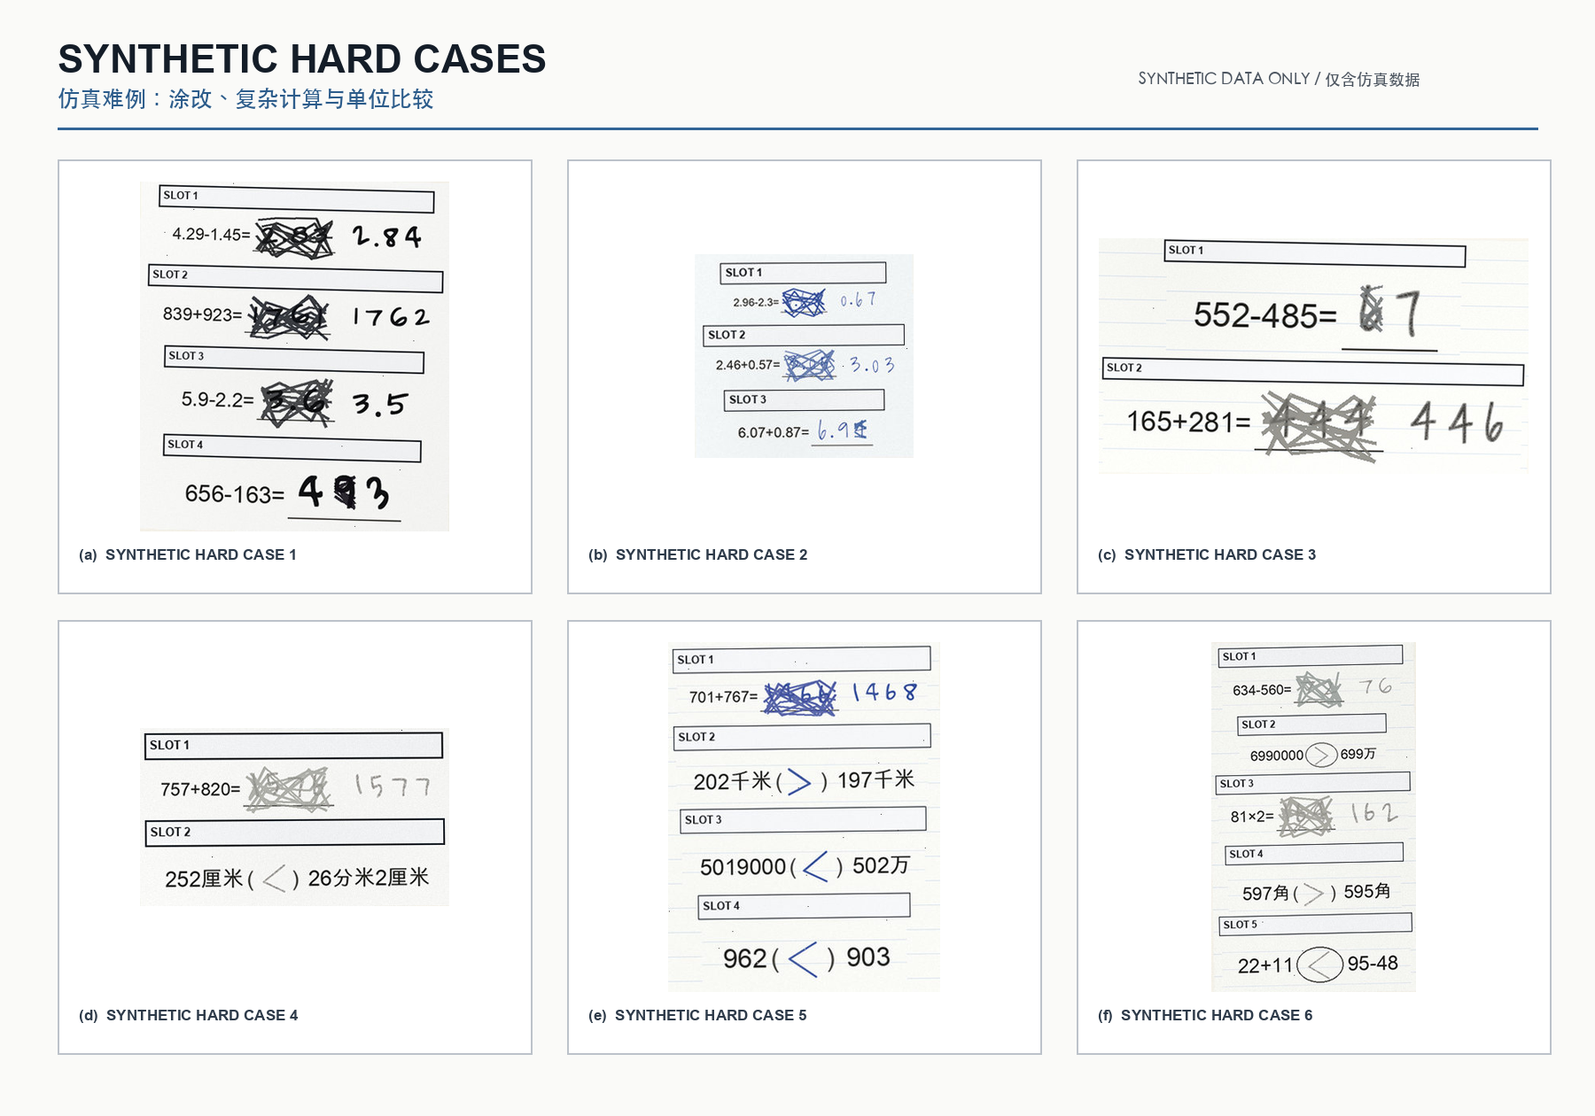
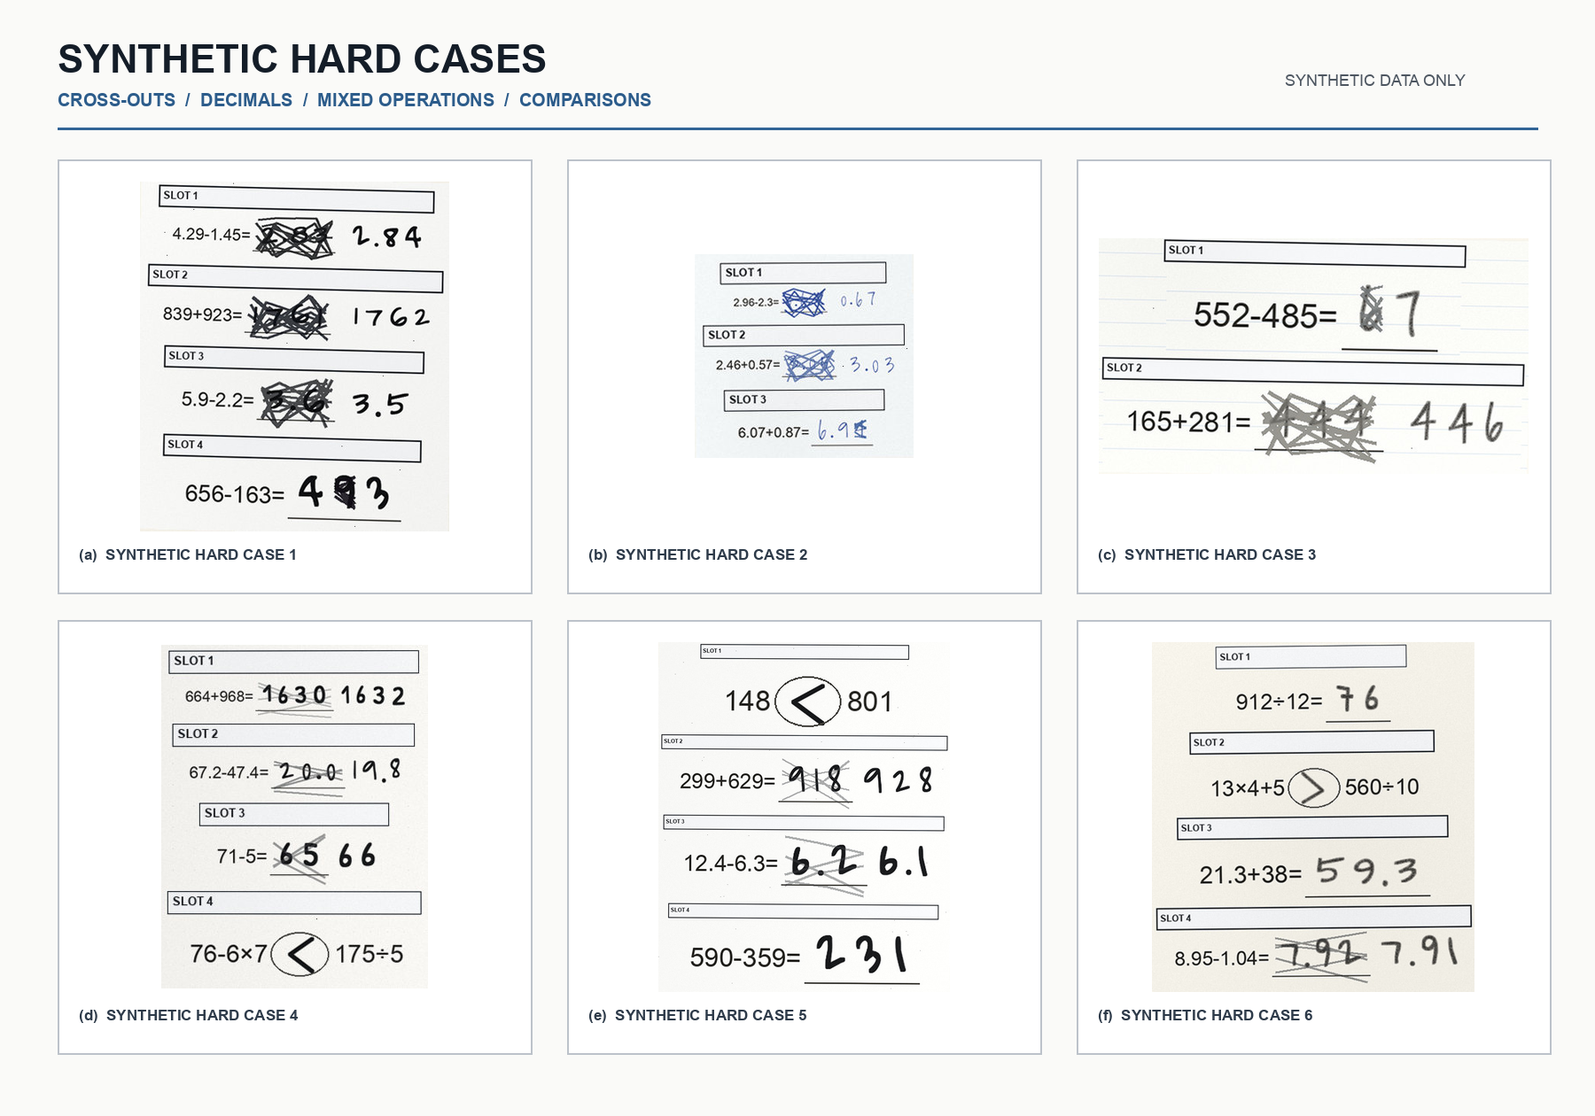
docs: publish English-first bilingual project pages

diff --git a/scripts/generate_demo.py b/scripts/generate_demo.py
@@ -52,18 +52,6 @@ def font(size: int, bold: bool = False):
     return ImageFont.load_default()
 
 
-def cjk_font(size: int, bold: bool = False):
-    paths = [
-        "/System/Library/Fonts/PingFang.ttc",
-        "/System/Library/Fonts/STHeiti Medium.ttc",
-        "/usr/share/fonts/opentype/noto/NotoSansCJK-Bold.ttc" if bold else "/usr/share/fonts/opentype/noto/NotoSansCJK-Regular.ttc",
-    ]
-    for path in paths:
-        if Path(path).exists():
-            return ImageFont.truetype(path, size, index=0)
-    return font(size, bold)
-
-
 def build_review_wall(records: list[dict], gallery: Path) -> None:
     cols, card_w, card_h = 4, 440, 430
     rows = (len(records) + cols - 1) // cols
@@ -71,8 +59,7 @@ def build_review_wall(records: list[dict], gallery: Path) -> None:
     board = Image.new("RGB", (width, height), (249, 249, 248))
     draw = ImageDraw.Draw(board)
     draw.text((55, 30), "SYNTHETIC DATA AUDIT", font=font(42, True), fill=(20, 29, 40))
-    draw.text((55, 82), "合成数据审查", font=cjk_font(25, True), fill=(44, 92, 139))
-    draw.text((285, 88), f"{len(records)} scenes / {len(records) * 5} items / labels + seeds + SHA256", font=font(21), fill=(79, 86, 96))
+    draw.text((55, 88), f"{len(records)} scenes / {len(records) * 5} items / labels + seeds + SHA256", font=font(21), fill=(79, 86, 96))
     draw.line((55, 126, width - 55, 126), fill=(49, 100, 150), width=3)
     draw.text((1570, 77), "CHECKS: PASS", font=font(20, True), fill=(28, 111, 73))
 
@@ -97,10 +84,9 @@ def build_hero(records: list[dict], gallery: Path) -> None:
     draw = ImageDraw.Draw(hero)
     draw.line((62, 46, 62, height - 46), fill=(43, 101, 157), width=5)
     draw.text((104, 70), "VERIINK", font=font(78, True), fill=(19, 28, 39))
-    draw.text((107, 165), "可验证手写仿真引擎", font=cjk_font(38, True), fill=(43, 101, 157))
-    draw.text((107, 220), "VERIFIABLE HANDWRITING SYNTHESIS", font=font(25, True), fill=(72, 81, 92))
-    draw.text((107, 306), "把模型做错的题，批量变成下一轮训练与回归数据。", font=cjk_font(27), fill=(40, 46, 54))
-    draw.text((107, 355), "Turn model failures into training and regression data.", font=font(21), fill=(58, 66, 76))
+    draw.text((107, 170), "VERIFIABLE HANDWRITING SYNTHESIS", font=font(30, True), fill=(43, 101, 157))
+    draw.text((107, 285), "Turn model failures into reproducible", font=font(27), fill=(40, 46, 54))
+    draw.text((107, 330), "training and regression data.", font=font(27), fill=(40, 46, 54))
     draw.line((107, 450, 690, 450), fill=(182, 187, 194), width=2)
     draw.text((107, 478), "SYNTHESIS  /  VALIDATION  /  REGRESSION", font=font(20, True), fill=(43, 101, 157))
     draw.text((107, 530), "PUBLIC DEMO  ·  SYNTHETIC DATA ONLY", font=font(18), fill=(104, 110, 118))
@@ -139,8 +125,8 @@ def build_hardcase_panel() -> None:
     board = Image.new("RGB", (width, height), (250, 250, 248))
     draw = ImageDraw.Draw(board)
     draw.text((65, 42), "SYNTHETIC HARD CASES", font=font(44, True), fill=(20, 29, 40))
-    draw.text((65, 98), "仿真难例：涂改、复杂计算与单位比较", font=cjk_font(25, True), fill=(44, 92, 139))
-    draw.text((1285, 80), "SYNTHETIC DATA ONLY / 仅含仿真数据", font=cjk_font(18), fill=(77, 86, 97))
+    draw.text((65, 101), "CROSS-OUTS  /  DECIMALS  /  MIXED OPERATIONS  /  COMPARISONS", font=font(20, True), fill=(44, 92, 139))
+    draw.text((1450, 80), "SYNTHETIC DATA ONLY", font=font(18), fill=(77, 86, 97))
     draw.line((65, 145, width - 65, 145), fill=(49, 100, 150), width=3)
 
     card_w, card_h = 535, 490

diff --git a/README.md b/README.md
@@ -1,11 +1,6 @@
-<p align="center">
-  <img src="assets/hero.png" alt="VeriInk — 可验证手写仿真引擎 / Verifiable Handwriting Synthesis" width="100%" />
-</p>
+<p align="right"><strong>English</strong> · <a href="README_ZH.md">中文</a></p>
 
-<p align="center">
-  <strong>把模型做错的题，变成下一轮训练数据。</strong><br/>
-  <strong>Turn model failures into the next training batch.</strong>
-</p>
+<p align="center"><img src="assets/hero.png" alt="VeriInk: verifiable handwriting synthesis" width="100%" /></p>
 
 <p align="center">
   <img alt="Python" src="https://img.shields.io/badge/Python-3.9%2B-356A9A" />
@@ -13,47 +8,31 @@
   <img alt="Deterministic rendering" src="https://img.shields.io/badge/Rendering-Deterministic-495B72" />
 </p>
 
-**摘要 / Abstract.** 基座模型和后训练都需要持续补充新数据，尤其是模型刚刚做错的那一类。VeriInk 把失败样本转成同类型手写场景，完成标签、边界与文件完整性检查后，直接用于训练和回归。模型哪里出错，下一批数据就补哪里。
+**VeriInk turns model failures into reproducible handwriting data.** A failed case becomes a controlled batch of related worksheets. The renderer records the seed, visible answer, target transcription, ink bounds, and file hash. Samples that fail the checks never enter the training batch.
 
-Foundation models and post-training runs need fresh data, especially around recent failures. VeriInk turns failed cases into matching handwriting scenes, validates their labels, boundaries, and files, and sends accepted samples into training and regression. New failures decide what the next batch contains.
+The public edition focuses on the part that is easy to audit: deterministic rendering, intentional mistakes, crossed-out revisions, and an explicit manifest. It is designed for OCR, multimodal grading, post-training, and regression evaluation.
 
-## 方法 / Method
+## Method
 
-<p align="center">
-  <img src="assets/method_overview_cvpr.png" alt="VeriInk bilingual method overview" width="100%" />
-</p>
+<p align="center"><img src="assets/method_overview.svg" alt="VeriInk method overview" width="100%" /></p>
 
-<p align="center"><sub>流程示意，不代表公开实测指标。 / Method illustration; not a reported benchmark.</sub></p>
+The model's errors define the next data slice. VeriInk converts those errors into task specifications, renders controlled handwriting scenes, checks label and pixel consistency, and sends accepted samples to training or regression. A later failure can be reproduced from its seed and traced back to the exact generation record.
 
-一条失败样本先被拆成可控的题目、答案、书写方式与版面条件，再生成对应图像。自动验收负责检查像素边界、标签契约和文件哈希；人工只抽查通过机器门禁的数据。训练或回归发现的新问题会成为下一轮合成条件。
+## Synthetic hard cases
 
-A failed sample is converted into controlled content, answer, writing, and layout conditions. Automated validation checks pixel bounds, label contracts, and file hashes before human review. Failures found during training or regression define the next synthesis batch.
+<p align="center"><img src="assets/synthetic_hardcases_cvpr.png" alt="Six synthetic handwriting hard cases" width="100%" /></p>
 
-## 仿真难例 / Synthetic Hard Cases
+These examples cover crossed-out revisions, decimal arithmetic, larger-number operations, and mixed-operation comparison. All six images came from the simulator. No real student image is included. Their public hashes are listed in [`examples/hardcases/manifest.json`](examples/hardcases/manifest.json).
 
-<p align="center">
-  <img src="assets/synthetic_hardcases_cvpr.png" alt="Six verified synthetic handwriting hard cases" width="100%" />
-</p>
+## Reproducible audit set
 
-这里展示的是涂改重写、小数计算、较大数运算、单位换算和比较题。六张图全部来自仿真引擎，并经过来源筛选；没有使用真实学生图片。公开清单与哈希见 [`examples/hardcases/manifest.json`](examples/hardcases/manifest.json)。
+<p align="center"><img src="examples/gallery/synthetic_review_wall.png" alt="Synthetic data audit wall with sixteen verified scenes" width="100%" /></p>
 
-These examples cover crossed-out revisions, decimal arithmetic, larger-number operations, unit conversion, and comparison. All six images were produced by the simulator and source-checked. No real student image is included. Their public manifest and hashes are available in [`examples/hardcases/manifest.json`](examples/hardcases/manifest.json).
+The demo generates **16 pages and 80 answer regions** in one run. It includes arithmetic, decimals, fill-in-the-blank questions, comparisons, unit conversion, intentional mistakes, and crossed-out revisions. [`manifest.json`](examples/gallery/manifest.json) links every image to its seed, labels, bounds, and SHA256.
 
-## 可复现审查集 / Reproducible Audit Set
+Wrong answers stay wrong. This is deliberate: a transcription model should copy the visible response instead of correcting it. Out-of-bounds ink, a broken label contract, or a modified file fails validation.
 
-<p align="center">
-  <img src="examples/gallery/synthetic_review_wall.png" alt="Bilingual synthetic data audit wall with sixteen verified scenes" width="100%" />
-</p>
-
-公开脚本一次生成 **16 张页面、80 个作答区域**，覆盖基础计算、小数、填空、比较、单位换算、故意写错和涂改重写。每张图都带 seed、标签、边界与 SHA256，结果记录在 [`manifest.json`](examples/gallery/manifest.json)。
-
-The public script generates **16 pages and 80 answer regions** in one run. It covers arithmetic, decimals, fill-in-the-blank questions, comparisons, unit conversion, intentional mistakes, and crossed-out revisions. Every image is paired with its seed, labels, bounds, and SHA256 in [`manifest.json`](examples/gallery/manifest.json).
-
-同一个 seed 能重建同一份样本。manifest 记录图片中可见的内容、目标转写，以及作答是否被故意写错。错答案会原样保留，用来训练模型忠实转写，而不是擅自纠正。笔迹出框、标签不一致或文件被修改，验收会直接失败。通过检查的数据可以接入 SFT、DPO/KTO 和回归集。
-
-The same seed rebuilds the same sample. The manifest records what is visible, how it should be transcribed, and whether the response is intentionally wrong. Wrong answers stay wrong, so the model learns to transcribe instead of correcting. Out-of-bounds ink, label mismatches, or modified files fail validation. Accepted samples can feed SFT, DPO/KTO, and regression sets.
-
-## 快速开始 / Quick Start
+## Quick start
 
 ```bash
 git clone https://github.com/znxzsy/VeriInk.git
@@ -65,37 +44,29 @@ python scripts/generate_demo.py
 pytest -q
 ```
 
-命令会重建公开样例、双语主图、审查墙和 manifest，并在结束前重新计算哈希与执行验收；任意一项不通过都会以非零状态退出。
+The command rebuilds the examples, hero image, hard-case plate, audit wall, and manifests. It recomputes every hash before it exits.
 
-The command rebuilds the public examples, bilingual hero, audit wall, and manifest. It recomputes hashes and runs validation before exiting; any failed check returns a non-zero status.
-
-## 仓库结构 / Repository Layout
+## Repository layout
 
 ```text
 VeriInk/
-├── src/veriink/          # 确定性渲染与验收 / deterministic rendering and validation
-├── scripts/              # 一键重建公开样例 / one-command public demo build
-├── examples/gallery/     # 可复现审查集 / reproducible audit set
-├── examples/hardcases/   # 仿真难例与哈希 / synthetic hard cases and hashes
-├── assets/fonts/         # 开源字体与许可证 / open fonts and licenses
-├── tests/                # 确定性和输入约束测试 / determinism and input checks
-└── docs/                 # 架构与公开数据边界 / architecture and data boundary
+├── src/veriink/          # deterministic renderer and validation
+├── scripts/              # one-command public demo build
+├── examples/gallery/     # reproducible audit set
+├── examples/hardcases/   # synthetic hard cases and hashes
+├── assets/fonts/         # open fonts and licenses
+├── tests/                # determinism and input checks
+└── docs/                 # architecture and data boundary
 ```
 
-## 公开版范围 / Public Release Boundary
+## Public release boundary
 
-本仓库是安全裁剪后的展示版。它不包含真实学生数据、生产采样分布、内部服务地址、对象存储路径、私有配置、上传部署脚本、训练集或模型权重。公开页面中的训练示例全部为仿真数据。
+The repository contains synthetic demo data only. It excludes real student data, production distributions, internal endpoints, object-storage paths, private configuration, deployment scripts, training sets, and model weights. See [SECURITY.md](SECURITY.md).
 
-This repository is a safety-scoped public demo. It excludes real student data, production distributions, internal endpoints, object-storage paths, private configuration, deployment scripts, training sets, and model weights. Every training example shown on the public page is synthetic.
+## Collaboration
 
-## 合作 / Collaboration
+The full system can be adapted to domain-specific tasks, scaled for data generation and quality gates, and connected to pre-training, post-training, or regression evaluation. For collaboration or private deployment, contact WeChat **`znxzsy`**.
 
-完整版本可适配特定题型、扩展并发生成与质量门禁，并接入基座训练、后训练和回归评测。合作或私有化需求请联系微信 **`znxzsy`**。
+## Data and license
 
-The full system can be adapted to domain-specific tasks, scaled for generation and quality gating, and connected to pre-training, post-training, and regression evaluation. For collaboration or private deployment, contact WeChat **`znxzsy`**.
-
-## 数据与许可 / Data and License
-
-本仓库的 gallery 与 hard-case 图片全部为仿真数据。内置字体遵循各自的 SIL Open Font License；除非另有说明，仓库其余内容不自动授予许可。公开数据边界见 [SECURITY.md](SECURITY.md)。
-
-All gallery and hard-case images in this repository are synthetic. Bundled fonts remain under their respective SIL Open Font License files. No license is granted for the remaining repository content unless stated otherwise. See [SECURITY.md](SECURITY.md) for the public data boundary.
+All gallery and hard-case images are synthetic. Bundled fonts remain under their respective SIL Open Font License files. No license is granted for the remaining repository content unless stated otherwise.

diff --git a/README_ZH.md b/README_ZH.md
@@ -1,0 +1,51 @@
+<p align="right"><a href="README.md">English</a> · <strong>中文</strong></p>
+
+<p align="center"><img src="assets/hero.png" alt="VeriInk 可验证手写仿真引擎" width="100%" /></p>
+
+# VeriInk
+
+模型刚做错的题，往往正是下一轮最缺的数据。VeriInk 根据失败样本生成一批同类型手写题，把 seed、可见答案、目标转写、笔迹边界和文件哈希一并记录下来。检查不通过的样本不会进入训练集。
+
+公开版保留了容易核验的部分：确定性渲染、故意写错、涂改重写和明确的 manifest。它可以用于 OCR、多模态批改、后训练和回归评测。
+
+## 工作流程
+
+<p align="center"><img src="assets/method_overview.svg" alt="VeriInk 工作流程" width="100%" /></p>
+
+模型错误决定下一批数据做什么。系统先把错误整理成题目规格，再生成可控的手写场景，检查标签、像素边界和文件完整性。通过检查的样本可以进入训练或回归；以后出现问题，也能用 seed 重建并追到原始生成记录。
+
+## 仿真难例
+
+<p align="center"><img src="assets/synthetic_hardcases_cvpr.png" alt="六张仿真手写难例" width="100%" /></p>
+
+这组样例包含涂改重写、小数计算、较大数运算和混合运算比较。六张图都由仿真引擎生成，不含真实学生图片。文件哈希见 [`examples/hardcases/manifest.json`](examples/hardcases/manifest.json)。
+
+## 可复现审查集
+
+<p align="center"><img src="examples/gallery/synthetic_review_wall.png" alt="包含十六个场景的仿真数据审查墙" width="100%" /></p>
+
+演示脚本一次生成 **16 张页面、80 个作答区域**，覆盖基础计算、小数、填空、比较、单位换算、故意写错和涂改重写。[`manifest.json`](examples/gallery/manifest.json) 保存每张图对应的 seed、标签、边界和 SHA256。
+
+学生写错时，数据会保留错法。这样才能训练模型忠实转写，而不是看到题目后自行计算。笔迹出框、标签不一致或文件被修改，验收都会直接失败。
+
+## 快速开始
+
+```bash
+git clone https://github.com/znxzsy/VeriInk.git
+cd VeriInk
+python -m venv .venv
+source .venv/bin/activate
+pip install -e ".[dev]"
+python scripts/generate_demo.py
+pytest -q
+```
+
+命令会重建公开样例、主图、难例墙、审查墙和 manifest，并在结束前重新计算全部哈希。
+
+## 公开范围
+
+仓库只包含仿真演示数据，不含真实学生数据、生产采样分布、内部服务地址、对象存储路径、私有配置、部署脚本、训练集或模型权重。完整边界见 [SECURITY_ZH.md](SECURITY_ZH.md)。
+
+## 合作
+
+完整版本可按具体题型扩展生成规则和质量门禁，也可以接入基座训练、后训练与回归评测。合作或私有化需求请联系微信 **`znxzsy`**。

diff --git a/docs/ARCHITECTURE.md b/docs/ARCHITECTURE.md
@@ -1,25 +1,21 @@
-# 公开版架构 / Public Demo Architecture
+<p align="right"><strong>English</strong> · <a href="ARCHITECTURE_ZH.md">中文</a></p>
 
-VeriInk 公开版保留一条精简、可检查的数据契约：固定规格与 seed 进入确定性渲染器，得到图像、标签、坐标和文件哈希，再由验收器统一检查。
+# Public demo architecture
 
-The public edition keeps a small, inspectable data contract: a fixed specification and seed enter the deterministic renderer, which produces the image, labels, coordinates, and file hash for validation.
+The public edition keeps a small, inspectable data contract: a fixed specification and seed enter the deterministic renderer, which produces an image, labels, coordinates, and a file hash for validation.
 
 ```text
-规格与 seed / specification + seed
-                  |
-                  v
-确定性渲染 / deterministic renderer -----> 图像 / image
-                  |                           |
-                  +---- 标签与坐标 -----------+
-                       labels + bounds        |
-                                              v
-                                manifest + integrity checks
+specification + seed
+          |
+          v
+deterministic renderer -----> image
+          |                       |
+          +-- labels + bounds ----+
+                                  |
+                                  v
+                     manifest + integrity checks
 ```
 
-同一份代码、字体、规格和 seed 会生成相同像素。manifest 保存可见答案、目标转写、标签、笔迹安全边界和 SHA256。
-
 The same code, fonts, specification, and seed reproduce the same pixels. The manifest stores visible answers, target transcriptions, labels, safe ink bounds, and SHA256 digests.
-
-公开仓库不包含生产数据分布、真实学生图片、私有数据集、服务凭证、内部地址、上传流程、私有拒绝策略或大规模调度代码。
 
 The public repository excludes production distributions, real student images, private datasets, service credentials, internal endpoints, upload pipelines, proprietary rejection policies, and high-volume orchestration.

diff --git a/SECURITY.md b/SECURITY.md
@@ -1,14 +1,12 @@
-# 安全与数据边界 / Security and Data Boundary
+<p align="right"><strong>English</strong> · <a href="SECURITY_ZH.md">中文</a></p>
 
-VeriInk 公开仓库只包含仿真演示数据。
+# Security and data boundary
 
 The public VeriInk repository contains synthetic demo data only.
 
-- 不含真实学生图片或标注 / No real student images or annotations
-- 不含凭证、内部地址、对象存储路径或真实配置 / No credentials, internal endpoints, object-storage paths, or real configuration
-- 不含生产采样分布或私有质量阈值 / No production sampling distributions or proprietary quality thresholds
-- 不含模型 checkpoint 或训练数据集 / No model checkpoints or training datasets
-
-请勿在公开 Issue 中提交私有数据。安全或数据边界问题请通过微信 `znxzsy` 私下联系维护者。
+- No real student images or annotations
+- No credentials, internal endpoints, object-storage paths, or real configuration
+- No production sampling distributions or proprietary quality thresholds
+- No model checkpoints or training datasets
 
 Do not open a public issue containing private data. For security or data-boundary concerns, contact the maintainer privately through WeChat `znxzsy`.

diff --git a/docs/ARCHITECTURE_ZH.md b/docs/ARCHITECTURE_ZH.md
@@ -1,0 +1,21 @@
+<p align="right"><a href="ARCHITECTURE.md">English</a> · <strong>中文</strong></p>
+
+# 公开版架构
+
+固定规格与 seed 进入确定性渲染器，得到图像、标签、坐标和文件哈希，再由验收器统一检查。
+
+```text
+规格 + seed
+    |
+    v
+确定性渲染器 ------> 图像
+    |                 |
+    +-- 标签与坐标 ---+
+                      |
+                      v
+                manifest + 完整性检查
+```
+
+同一份代码、字体、规格和 seed 会生成相同像素。manifest 保存可见答案、目标转写、标签、笔迹安全边界和 SHA256。
+
+公开仓库不包含生产数据分布、真实学生图片、私有数据集、服务凭证、内部地址、上传流程、私有拒绝策略或大规模调度代码。

diff --git a/SECURITY_ZH.md b/SECURITY_ZH.md
@@ -1,0 +1,12 @@
+<p align="right"><a href="SECURITY.md">English</a> · <strong>中文</strong></p>
+
+# 安全与数据边界
+
+VeriInk 公开仓库只包含仿真演示数据。
+
+- 不含真实学生图片或标注
+- 不含凭证、内部地址、对象存储路径或真实配置
+- 不含生产采样分布或私有质量阈值
+- 不含模型 checkpoint 或训练数据集
+
+请勿在公开 Issue 中提交私有数据。安全或数据边界问题请通过微信 `znxzsy` 私下联系维护者。
